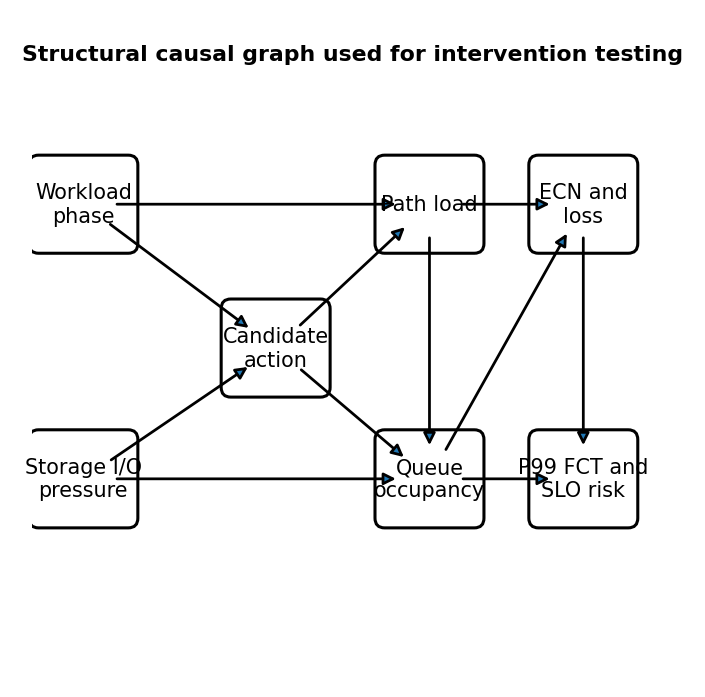
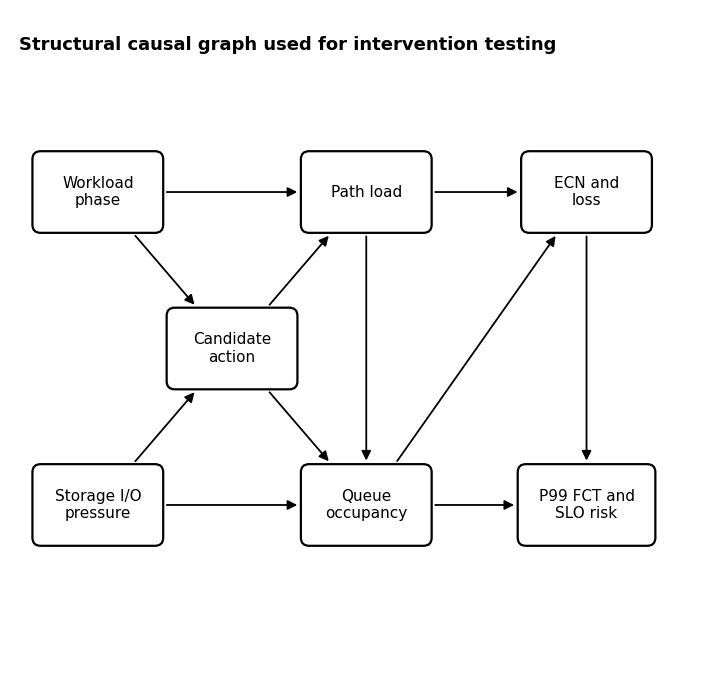
Beautify author section and fix causal graph diagram
Add a proper Authors section to the GitHub Pages site (card grid,
nav link, footer credit) and turn the README's run-on author
sentence into a table. Redraw the causal graph figure so arrows no
longer overlap node labels.

diff --git a/docs/index.html b/docs/index.html
@@ -135,6 +135,13 @@
   .lim-list li:last-child{border-bottom:none}
   .lim-list li::before{content:"—";color:var(--warn);flex-shrink:0}
 
+  .authors-grid{display:grid;grid-template-columns:repeat(2,1fr);gap:14px}
+  @media (max-width:700px){ .authors-grid{grid-template-columns:1fr} }
+  .author-card{background:var(--bg2);border:1px solid var(--border-soft);border-radius:10px;padding:18px}
+  .author-card .name{font-size:15px;font-weight:700;color:#f8fafc}
+  .author-card .role{font-size:13px;color:var(--text-dim);margin-top:4px}
+  .author-card .corresponding{display:inline-block;margin-top:10px;font-size:11px;font-weight:600;padding:3px 10px;border-radius:20px;background:rgba(56,189,248,.08);border:1px solid rgba(56,189,248,.25);color:var(--accent)}
+
   footer{padding:40px 0 60px;text-align:center;color:var(--text-faint);font-size:12.5px}
   footer a{color:var(--text-dim)}
 </style>
@@ -150,6 +157,7 @@
       <a href="#results">Results</a>
       <a href="#limitations">Limitations</a>
       <a href="#roadmap">Roadmap</a>
+      <a href="#authors">Authors</a>
       <a href="https://github.com/sunilgentyala/CausalNetTwin">GitHub</a>
     </div>
   </div>
@@ -397,9 +405,35 @@ python -m causalnettwin.cli --output results --seeds <span class="n">30</span> -
   </div>
 </section>
 
+<section id="authors">
+  <div class="wrap">
+    <div class="eyebrow">Who built this</div>
+    <h2>Authors</h2>
+    <div class="authors-grid">
+      <div class="author-card">
+        <div class="name">Sunil Gentyala</div>
+        <div class="role">HCLTech</div>
+        <span class="corresponding">Corresponding author</span>
+      </div>
+      <div class="author-card">
+        <div class="name">Suresh Kumar Darisi</div>
+        <div class="role">Rocket Software</div>
+      </div>
+      <div class="author-card">
+        <div class="name">John Martin</div>
+        <div class="role">HCLTech, Auckland, New Zealand</div>
+      </div>
+      <div class="author-card">
+        <div class="name">Floriano Caprio</div>
+        <div class="role">Università Campus Bio-Medico di Roma</div>
+      </div>
+    </div>
+  </div>
+</section>
+
 <footer>
   <div class="wrap">
-    Research artifact by Sunil Gentyala · Apache License 2.0 ·
+    Research artifact by Sunil Gentyala, Suresh Kumar Darisi, John Martin &amp; Floriano Caprio · Apache License 2.0 ·
     <a href="https://github.com/sunilgentyala/CausalNetTwin">github.com/sunilgentyala/CausalNetTwin</a>
   </div>
 </footer>

diff --git a/README.md b/README.md
@@ -56,7 +56,12 @@ The included benchmark is a deterministic structural and event-driven research s
 
 ## Authors
 
-Sunil Gentyala, corresponding author; Suresh Kumar Darisi; John Martin, HCLTech, Auckland, New Zealand; Floriano Caprio, Università Campus Bio-Medico di Roma.
+| Author | Affiliation |
+|---|---|
+| **Sunil Gentyala** *(corresponding author)* | HCLTech |
+| **Suresh Kumar Darisi** | Rocket Software |
+| **John Martin** | HCLTech, Auckland, New Zealand |
+| **Floriano Caprio** | Università Campus Bio-Medico di Roma |
 
 ## License
 